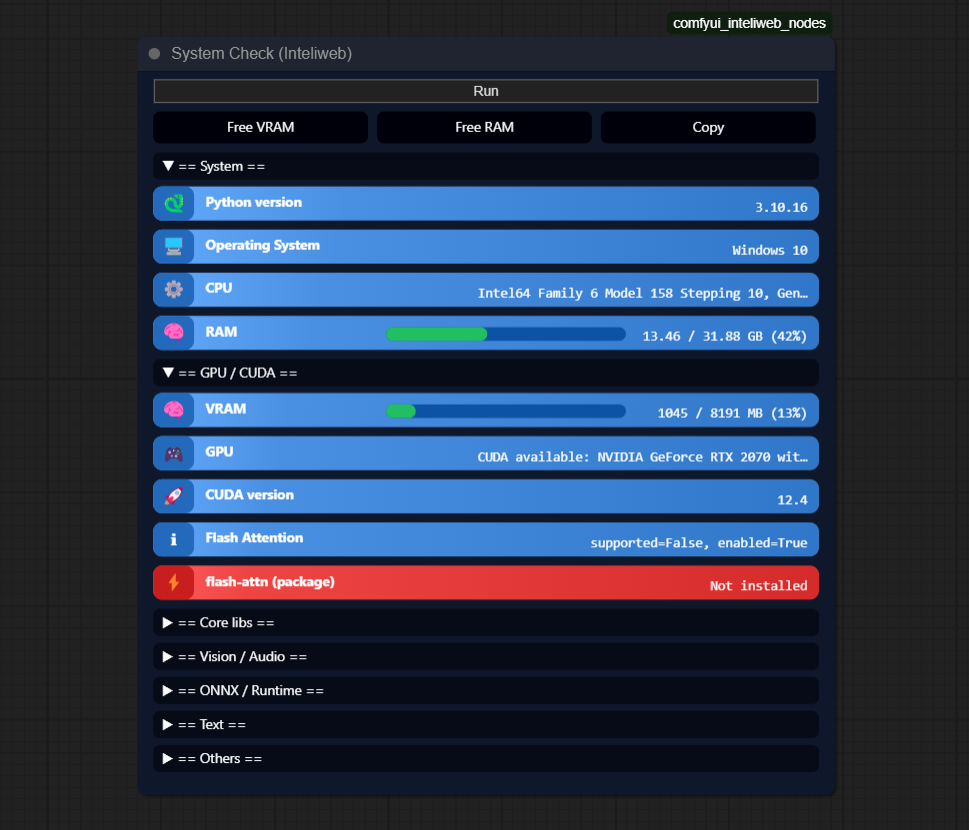
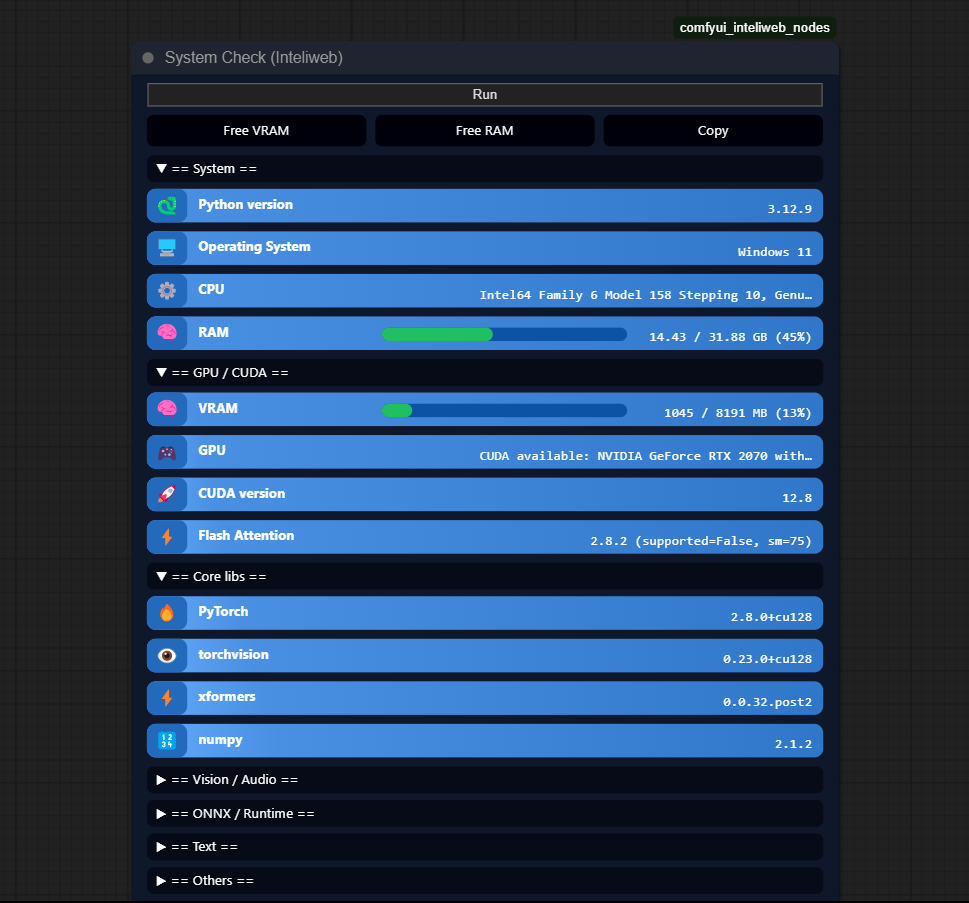
Fix: Pillow version

diff --git a/system_check.py b/system_check.py
@@ -4,6 +4,7 @@ import platform
 import importlib
 import json
 
+
 def _get(mod):
     """Return module version or 'Not installed'."""
     try:
@@ -50,7 +51,8 @@ def _flash_attn_simple():
                 sm = None
         # soporte de Flash SDP nativa
         try:
-            supported = bool(getattr(torch.backends.cuda, "flash_sdp_supported", lambda: False)())
+            supported = bool(getattr(torch.backends.cuda,
+                             "flash_sdp_supported", lambda: False)())
         except Exception:
             supported = False
     except Exception:
@@ -100,12 +102,12 @@ def _collect():
 
     # Other useful libs
     libs = [
-        "xformers", "numpy", "Pillow", "cv2", "transformers", "diffusers",
+        "xformers", "numpy", "PIL", "cv2", "transformers", "diffusers",
         "huggingface_hub", "tokenizers", "onnx", "onnxruntime", "timm",
         "accelerate", "bitsandbytes", "sentencepiece", "kornia", "insightface",
         "ultralytics", "mediapipe", "scipy", "skimage", "pandas", "triton", "sageattention", "av"
     ]
-    aliases = {"cv2": "OpenCV", "Pillow": "Pillow",
+    aliases = {"cv2": "OpenCV", "PIL": "Pillow",
                "skimage": "scikit-image", "av": "AV"}
     for m in libs:
         label = aliases.get(m, m)
@@ -153,18 +155,21 @@ def _collect():
             if callable(fn):
                 try:
                     import torch
-                    dev = torch.device("cuda") if torch.cuda.is_available() else torch.device("cpu")
+                    dev = torch.device(
+                        "cuda") if torch.cuda.is_available() else torch.device("cpu")
                     supported = bool(fn(dev))
                 except Exception:
                     supported = None
         if supported is None:
             try:
                 import torch
-                supported = hasattr(torch.ops, "sageattention") or hasattr(torch.ops, "sage_attention")
+                supported = hasattr(torch.ops, "sageattention") or hasattr(
+                    torch.ops, "sage_attention")
             except Exception:
                 supported = None
 
-        info["sageattention"] = (ver or "present") if supported is None else f"{ver or 'present'} (supported={supported})"
+        info["sageattention"] = (
+            ver or "present") if supported is None else f"{ver or 'present'} (supported={supported})"
 
     except Exception:
         pass

diff --git a/README.md b/README.md
@@ -1,7 +1,7 @@
 # comfyui_inteliweb_nodes
 
 <p align="left">
-  <img src="https://img.shields.io/badge/version-0.15.0-blue" alt="version 0.15.0" />
+  <img src="https://img.shields.io/badge/version-0.15.1-blue" alt="version 0.15.1" />
   <a href="http://www.apache.org/licenses/LICENSE-2.0">
     <img src="https://img.shields.io/badge/license-Apache--2.0-brightgreen" alt="Apache-2.0" />
   </a>
@@ -19,6 +19,8 @@
 
 **Expandido (después de Run)**  
 <img src="assets/system_check_expanded.png" alt="System Check - estado expandido" width="700"/>
+<img src="assets/system_check_expanded_2.png" alt="System Check - estado expandido" width="700"/>
+<img src="assets/system_check_expanded_3.png" alt="System Check - estado expandido" width="700"/>
 
 </div>
 
